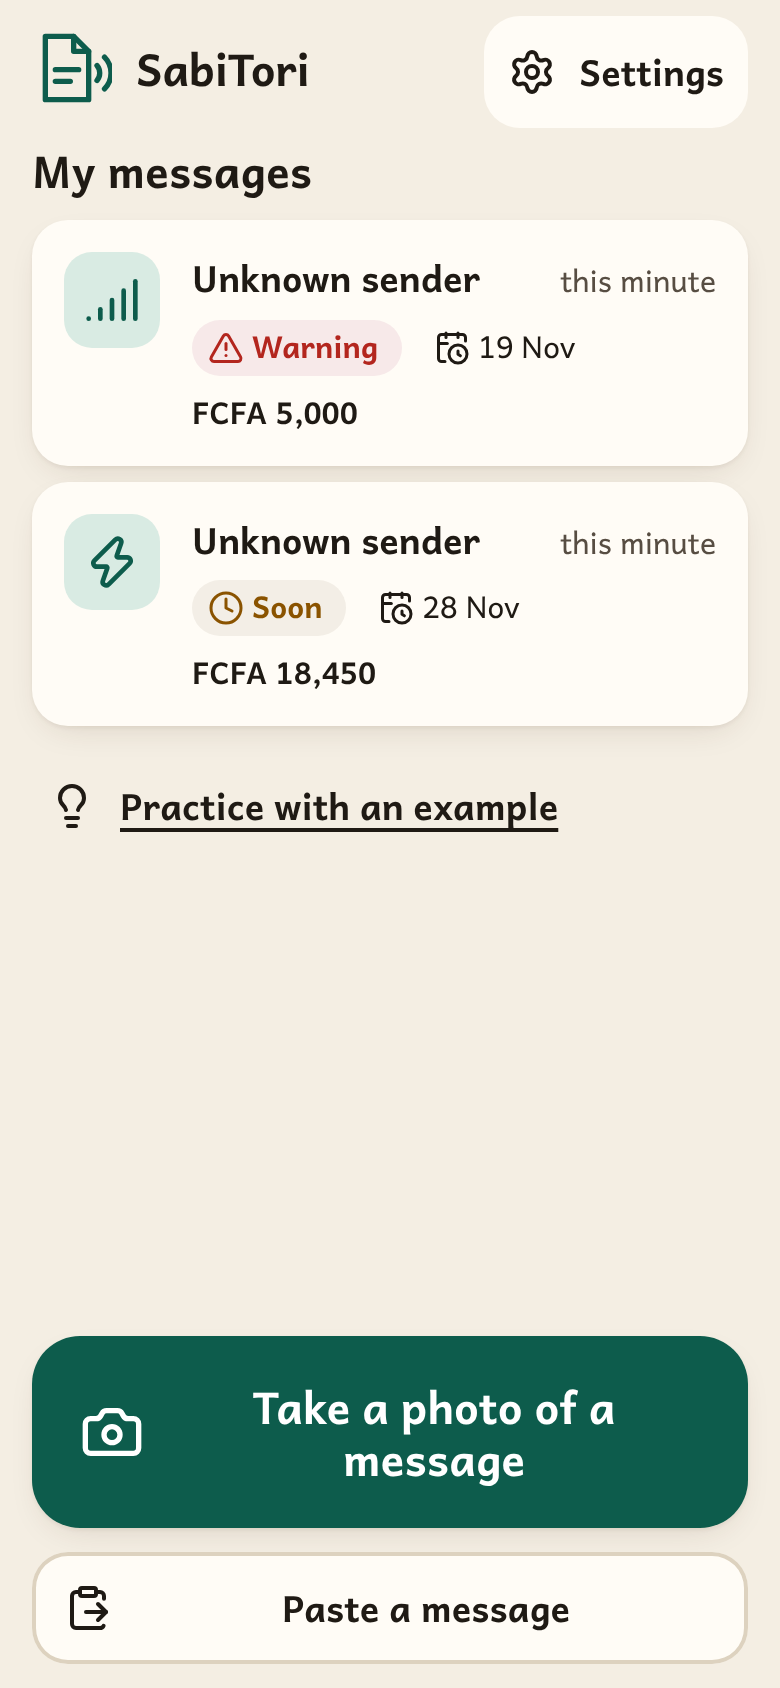
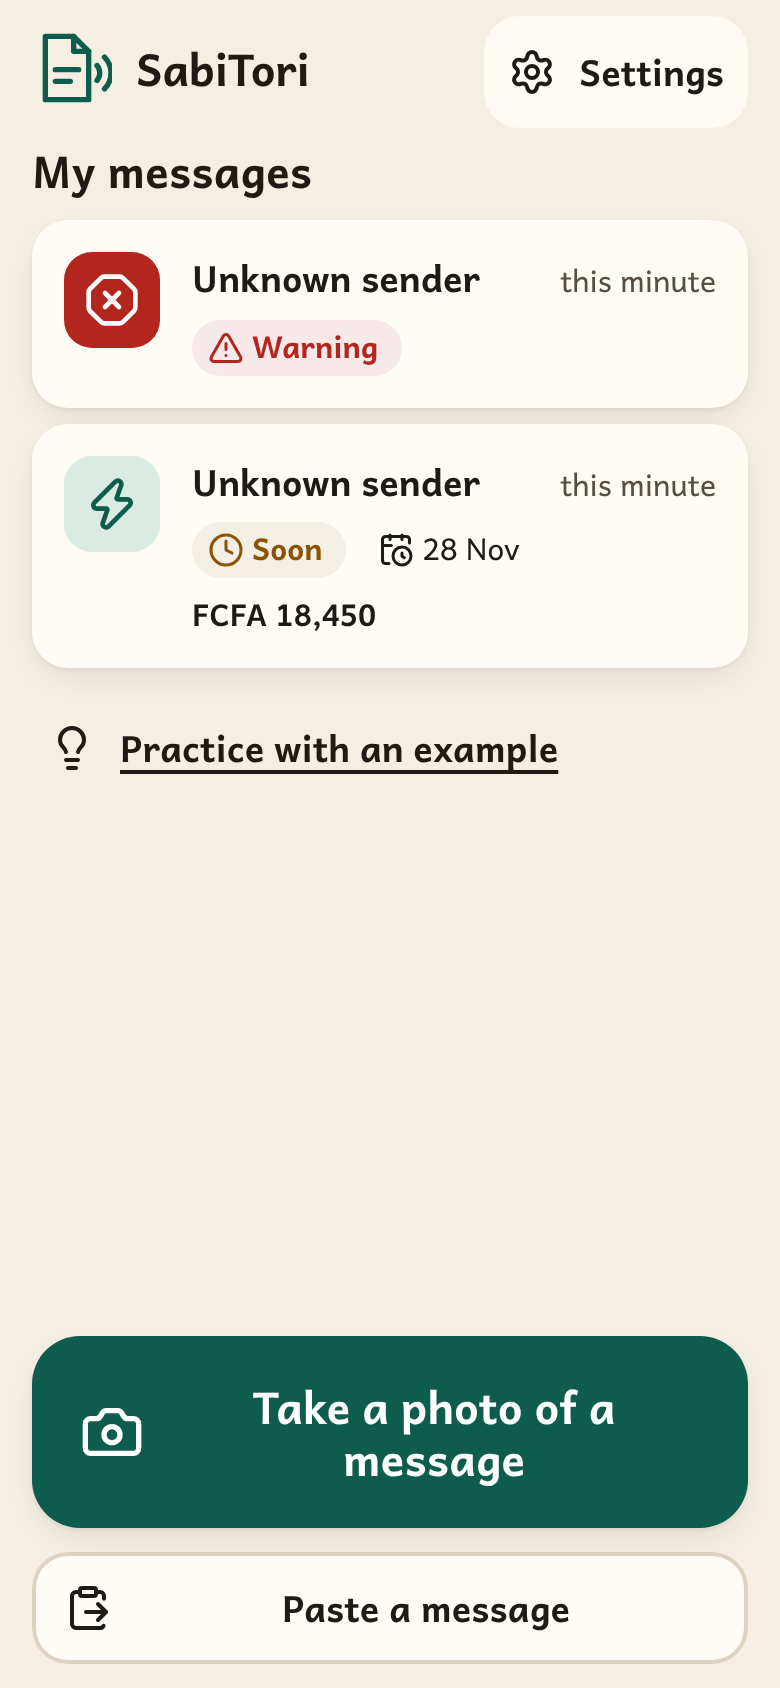
Landing: home screenshot shows a scam row without an amount
Claude-Session: https://claude.ai/code/session_01QJY27S5NjtgRohPjBUWx78

Changed region(s): [[0.0308, 0.1232, 0.9538, 0.4929]]

diff --git a/docs/dev/loop.md b/docs/dev/loop.md
@@ -271,6 +271,8 @@ bottom. People can reorder, add or strike items at any time; the loop re-reads t
 - [x] **Scam rows in the message list.** A likely scam was listed like a bill: its amount ("FCFA 5,000") and date
       beside it, which reads as "pay 5,000 by then". The row now shows the red stop sign as its picture and no amount
       or date; caution and ordinary rows unchanged. Browser test.
+- [x] **Landing screenshots follow the app.** `site/img/home.png` still showed a scam listed with its amount (fixed in
+      #81); all five landing screenshots retaken from the current build (English, 2x); only the home screen changed.
 
 ## Log
 
@@ -352,3 +354,4 @@ bottom. People can reorder, add or strike items at any time; the loop re-reads t
 | 2026-11-19 | #79 | Android VIBRATE permission so the scam vibration works in the app; privacy and store docs updated | local gate (Actions budget) |
 | 2026-11-19 | #80 | Picture card: amber tile on a caution, pictures follow the card sections | local gate (Actions budget) |
 | 2026-11-19 | #81 | Message list: a likely scam shows the stop sign, no amount or date | local gate (Actions budget) |
+| 2026-11-19 | #82 | Landing home screenshot: scam row without amount | local gate (Actions budget) |
